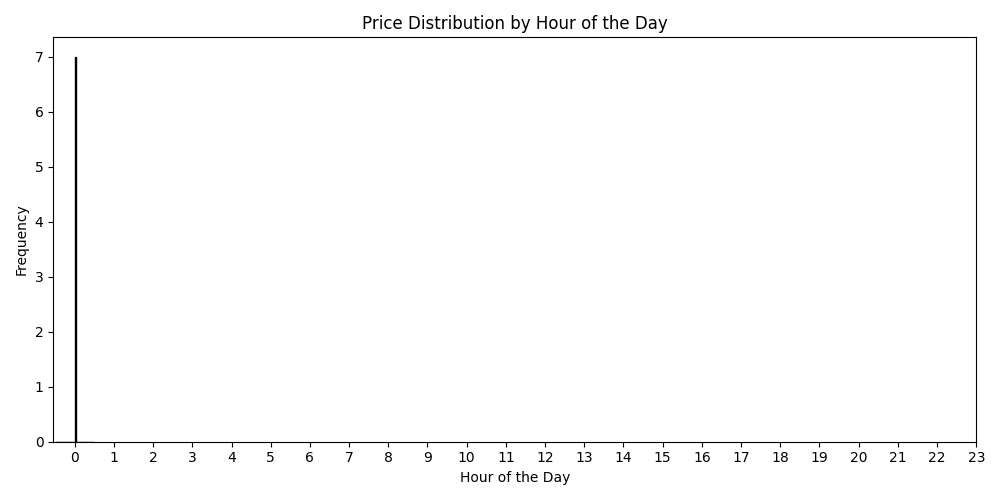
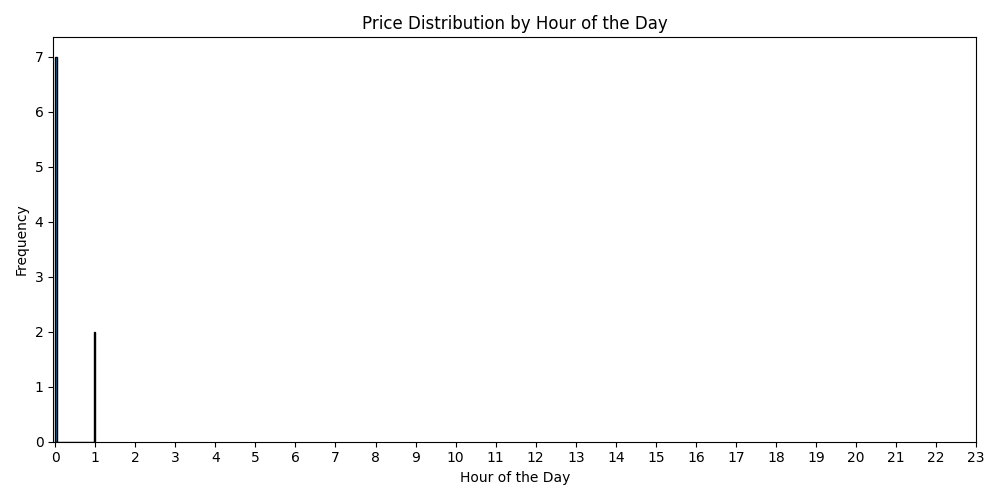
price: ensure price updates are reflected in csv

Changed region(s): [[0.031, 0.12, 0.124, 0.87], [0.372, 0.9, 0.992, 0.93], [0.031, 0.9, 0.341, 0.93]]

diff --git a/main.py b/main.py
@@ -36,15 +36,26 @@ def scrape_price():
             price_span = soup.find('span', id='lblPrice')
 
             if price_span:
-                price = price_span.text.strip()
+                new_price = price_span.text.strip()
                 timestamp = datetime.now().strftime('%Y-%m-%d %H:%M:%S')
 
-                # Save the price and timestamp to a CSV file
-                with open(DATA_FILE, 'a', newline='') as file:
-                    writer = csv.writer(file)
-                    writer.writerow([timestamp, price])
+                # Check if the CSV file exists and read the last recorded price
+                last_price = None
+                if os.path.exists(DATA_FILE):
+                    with open(DATA_FILE, 'r') as file:
+                        reader = csv.reader(file)
+                        rows = list(reader)
+                        if len(rows) > 1:  # Skip header row
+                            last_price = rows[-1][1]  # Last recorded price
 
-                print(f"Scraped price: {price} at {timestamp}")
+                # Only update the CSV file if the price has changed
+                if last_price is None or new_price != last_price:
+                    with open(DATA_FILE, 'a', newline='') as file:
+                        writer = csv.writer(file)
+                        writer.writerow([timestamp, new_price])
+                    print(f"Scraped price: {new_price} at {timestamp} (Price changed)")
+                else:
+                    print(f"Scraped price: {new_price} at {timestamp} (No change)")
                 break  # Exit the retry loop if successful
             else:
                 print("Price element not found")
